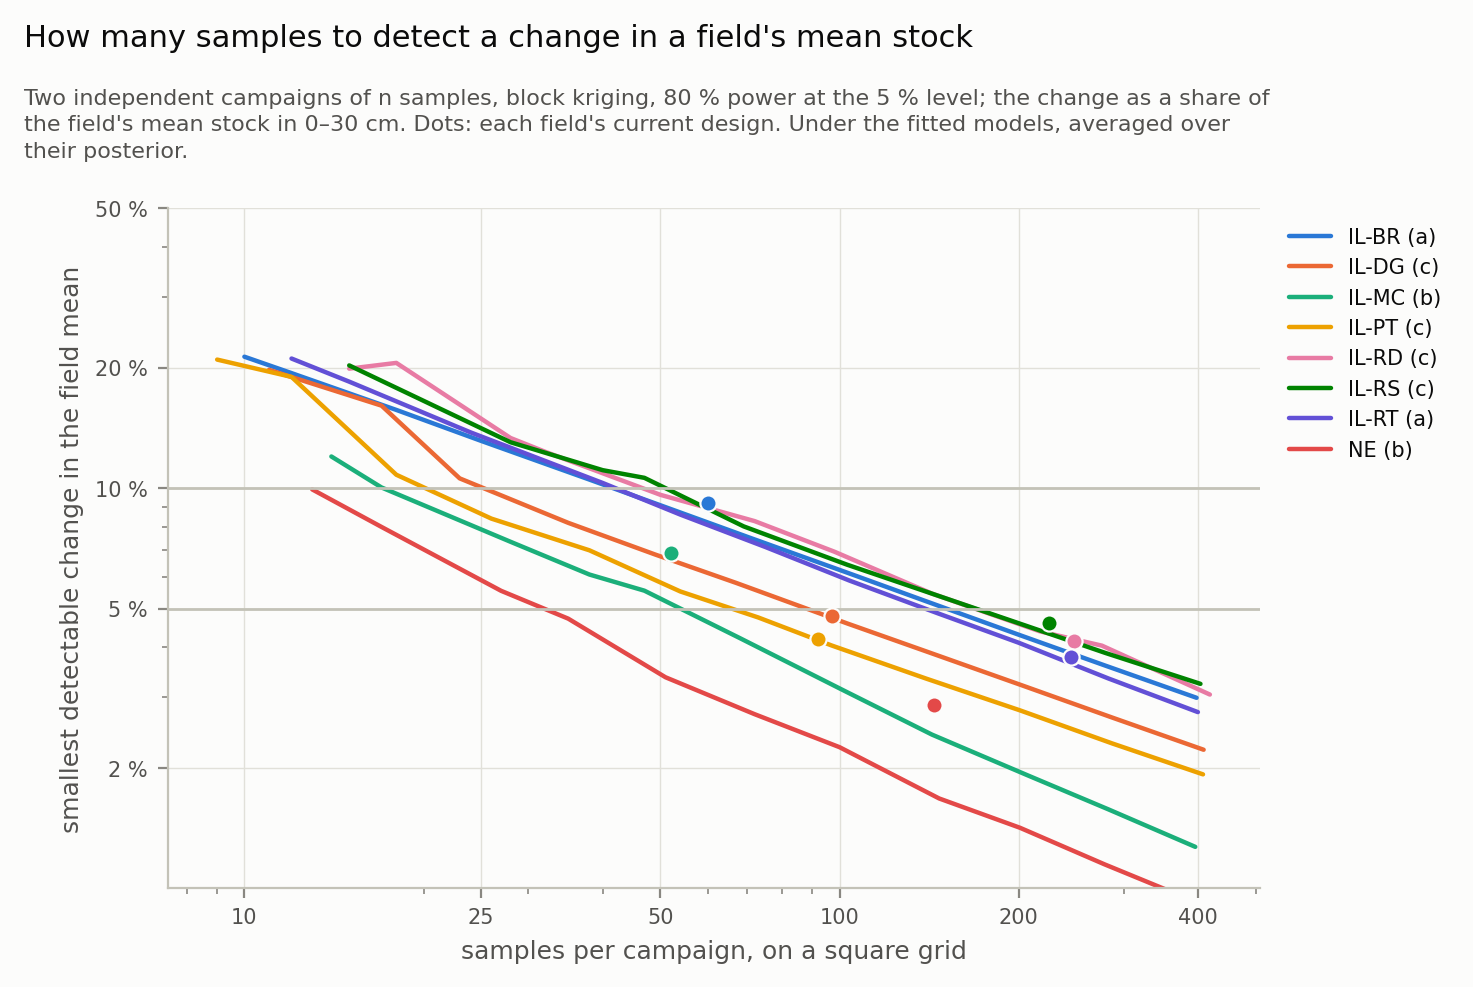
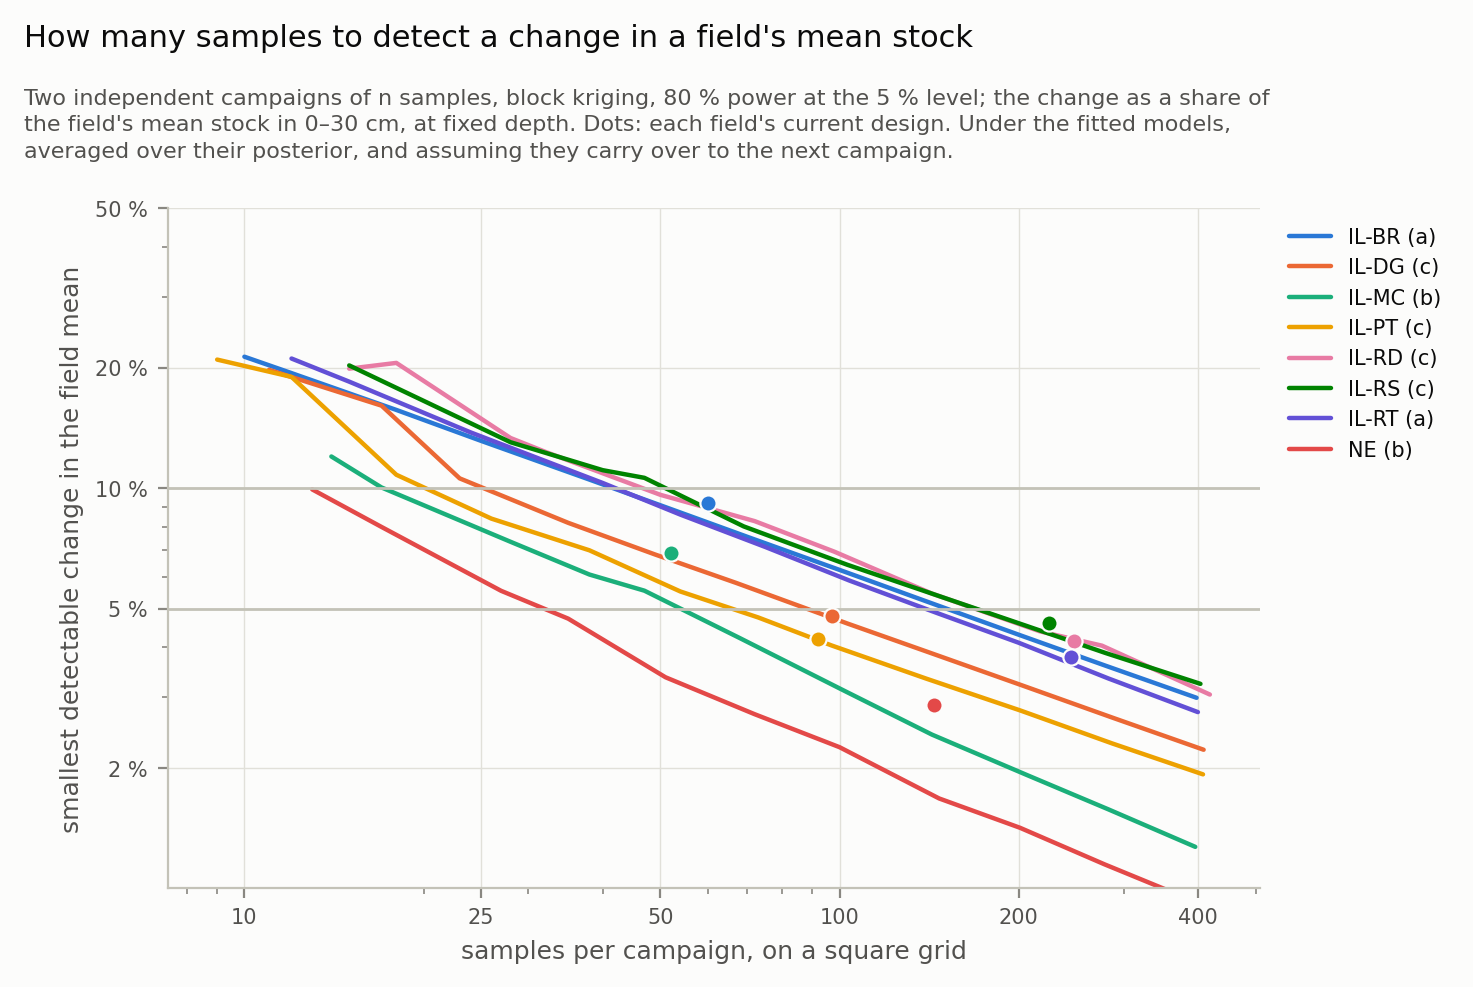
Review of v1.0, first fixes: the README and the report say what the results rest on (selection, IL-BR, the model carrying over, fixed depth, the gstat gap unexplained); matplotlib and GeoPandas in the requirements and the lock; four tests redraw the report's figures

Changed region(s): [[0.2498, 0.1216, 0.8432, 0.1824], [0.0312, 0.1216, 0.1249, 0.1824], [0.1561, 0.152, 0.2186, 0.1824]]

diff --git a/src/report/test_figures.py b/src/report/test_figures.py
@@ -1,0 +1,52 @@
+"""The report's figures redrawn from the tables committed beside them
+(docs/figures/*.csv), so that a change to figures.py or to the environment
+that breaks a figure fails CI. The map and the variograms need the curated
+tables, which are not committed, and are drawn by `python -m src.report.figures`
+only. Added 15.11.2026 after the review of v1.0 (docs/REVIEW_V1.md, section 3)."""
+import pandas as pd
+import pytest
+
+from src.report import figures as FG
+
+TABLES = FG.FIGURES
+
+
+@pytest.fixture(scope="module")
+def means():
+    return pd.read_csv(TABLES / "field_means.csv")
+
+
+@pytest.fixture(scope="module")
+def selected(means):
+    return means.set_index("site")["model"].sort_index()
+
+
+def _drawn(path):
+    assert path.exists() and path.stat().st_size > 20_000
+    return True
+
+
+def test_calibration(tmp_path, selected):
+    out = tmp_path / "calibration.png"
+    FG.draw_calibration(pd.read_csv(TABLES / "calibration.csv"), selected, out)
+    assert _drawn(out)
+
+
+def test_crps_by_field(tmp_path, selected):
+    table = pd.read_csv(TABLES / "crps_by_field.csv")
+    assert set(table["site"]) == set(selected.index)
+    out = tmp_path / "crps_by_field.png"
+    FG.draw_crps(table, selected, out)
+    assert _drawn(out)
+
+
+def test_field_means(tmp_path, means):
+    out = tmp_path / "field_means.png"
+    FG.draw_field_means(means, out)
+    assert _drawn(out)
+
+
+def test_detectable_change(tmp_path, means):
+    out = tmp_path / "detectable_change.png"
+    FG.draw_detectable_change(pd.read_csv(TABLES / "detectable_change.csv"), means, out)
+    assert _drawn(out)

diff --git a/src/report/figures.py b/src/report/figures.py
@@ -10,7 +10,7 @@ curated tables alone.
                                         each field's selected mean model, and QRF
         docs/figures/calibration.csv    the values the calibration figure draws
 
-Needs requirements-figures.txt (matplotlib). The colours are the portfolio's
+Needs matplotlib (requirements.txt). The colours are the portfolio's
 data-visualisation palette: three categorical hues, checked for colour-vision
 deficiency, and one-hue sequential ramps for the maps.
 """
@@ -337,8 +337,8 @@ def draw_detectable_change(effort: pd.DataFrame, means: pd.DataFrame, out) -> No
     ax.set_ylabel("smallest detectable change in the field mean")
     _title(fig, "How many samples to detect a change in a field's mean stock",
            "Two independent campaigns of n samples, block kriging, 80 % power at the 5 % level; the change as a share "
-           "of the field's mean stock in 0–30 cm. Dots: each field's current design. Under the fitted models, averaged "
-           "over their posterior.", 110)
+           "of the field's mean stock in 0–30 cm, at fixed depth. Dots: each field's current design. Under the fitted "
+           "models, averaged over their posterior, and assuming they carry over to the next campaign.", 110)
     fig.savefig(out, dpi=DPI, bbox_inches="tight", pad_inches=0.12)
     plt.close(fig)
 

diff --git a/README.md b/README.md
@@ -1,15 +1,16 @@
 # Soil Carbon Kriging
 
-**Soil organic carbon mapped with its uncertainty, in Python.** Ordinary
-kriging and the kriging variance on field-scale carbon stocks from eight U.S.
-Midwest fields, then on Germany's agricultural soil inventory, whose published
-site locations are offset by up to 4 km for data protection.
+**Soil organic carbon mapped with its uncertainty, in Python.** Bayesian
+kriging of field-scale carbon stocks from eight U.S. Midwest fields, with the
+uncertainty of every prediction and of each field's mean. Germany's
+agricultural soil inventory, whose published site locations are offset by up
+to 4 km for data protection, is pulled and checked; its model is Stage 6.
 
 **Author:** Dr. Adewole Olagoke · [aolagoke-dsae](https://github.com/aolagoke-dsae)
 
 ![IL-RT, one of the eight fields: the predicted soil organic carbon stock at 2,903 cells of 10 m beside its predictive standard deviation, with the 245 sampled locations](docs/figures/map_IL-RT.png)
 
-*IL-RT, one of the eight fields: the stock in 0–30 cm predicted at each 10 m cell by Bayesian kriging of 245 samples (dots), beside its uncertainty, lowest at the samples. In cross-validation the field's kriging has a modelling efficiency of 0.57, and its 90 % intervals hold 89.5 % of the held-out stocks.*
+*IL-RT, one of the eight fields: the stock in 0–30 cm predicted at each 10 m cell by Bayesian kriging of 245 samples (dots), beside its uncertainty, lowest at the samples. In cross-validation the field's kriging has a modelling efficiency of 0.57, and its 90 % intervals hold 89.5 % of the held-out stocks. IL-RT is shown because it is the field where kriging does best: across the eight fields the modelling efficiency runs from −0.04 to 0.57, and at IL-BR and IL-DG a map adds almost nothing to the field's mean.*
 
 > **Status: Stage 5 run (14.11.2026): each field's mean stock, with what it means for monitoring.**
 > The report: https://aolagoke-dsae.github.io/soil-carbon-kriging/
@@ -26,6 +27,8 @@ site locations are offset by up to 4 km for data protection.
 > ([`RUNBOOK.md`](RUNBOOK.md), Stages 2 to 5). Each stage's rules are fixed
 > by a commit before its data is touched; Stage 2's followed a review
 > against current practice ([`docs/REVIEW_STAGE2.md`](docs/REVIEW_STAGE2.md)).
+> A pre-publication review of v1.0 ([`docs/REVIEW_V1.md`](docs/REVIEW_V1.md),
+> 15.11.2026) is being worked through before Stage 6.
 
 ## Kurzfassung
 
@@ -36,12 +39,14 @@ Mittleren Westen der USA (Potash et al., 2023); die Kovarianzmodelle werden
 per REML geschätzt, Geländeparameter aus USGS-3DEP-Höhendaten dienen als
 Kovariaten. In dreimal wiederholter zehnfacher Kreuzvalidierung halten die
 90-%-Intervalle des bayesschen Krigings an jedem Feld 88 bis 91 % der
-zurückgehaltenen Vorräte, und im CRPS schneidet es an sieben von acht
-Feldern besser ab als ein Quantile Regression Forest. Der mittlere Vorrat je
-Feld, per bayesschem Block-Kriging geschätzt, liegt zwischen 21,8 und
-65,7 Mg C/ha; um eine Änderung von 10 % des Mittels zwischen zwei
-Beprobungen nachzuweisen, genügen auf einem Raster 13 bis 52 Proben statt 25
-bis 103 bei einfacher Zufallsstichprobe. Die Regeln jeder Stufe werden per
+zurückgehaltenen Vorräte; im CRPS schneidet es an sieben von acht Feldern
+besser ab als der hier trainierte Quantile Regression Forest, an fünf, wenn
+das Mittelwertmodell vorab festgelegt wird. Der mittlere Vorrat je Feld, per
+bayesschem Block-Kriging geschätzt, liegt an sieben Feldern zwischen 50,8 und
+65,7 Mg C/ha; der Wert des achten (IL-BR, 21,8) wird noch geprüft. Um eine
+Änderung von 10 % des Mittels zwischen zwei Beprobungen nachzuweisen, genügen
+auf einem Raster mit Block-Kriging 13 bis 52 Proben, sofern das angepasste
+Modell weiter gilt, statt 25 bis 103 bei einfacher Zufallsstichprobe. Die Regeln jeder Stufe werden per
 Commit festgelegt, bevor ihre Daten verwendet werden; die Übertragung auf die
 Bodenzustandserhebung Landwirtschaft (BZE-LW) des Thünen-Instituts folgt als
 Stufe 6.
@@ -81,61 +86,83 @@ the pulls and the checkpoints is in [`RUNBOOK.md`](RUNBOOK.md), Stages 1 and 3.
 
 ## What is real
 
-- **Real:** two ingestion clients built on `requests` (retries, timeouts,
-  write-once storage, a manifest row per response); both datasets pulled and
-  checked against their sources (Checkpoint 1, 9/9 rules); the 0–30 cm stock
-  at 1,163 locations, checked against a second computation; REML for three
+**Built and checked**
+
+- **Ingestion:** three clients built on `requests` (figshare, the Thünen
+  Atlas WFS, and The National Map by HTTP range requests), with retries,
+  timeouts, write-once storage and a manifest row per response; both
+  datasets checked against their sources (Checkpoint 1, 9/9 rules).
+- **Stocks and covariance models (Stage 2):** the 0–30 cm stock at 1,163
+  locations, checked against a second computation; REML for three
   covariance families and two mean models, written in NumPy and SciPy, its
-  likelihood checked against scikit-learn's and its estimates on 50
-  simulated fields; the REML fits to all eight fields under both mean
-  models, with 95 % profile-likelihood intervals, the pooling test for the
-  small fields, a Box-Cox profile per field and a geometric-anisotropy check
-  for the large fields; the gstat-style moment baseline beside them, its
-  semivariances and fits checked against GSTools' (Checkpoint 2, 9/9
-  rules); a third client, which reads only the parts of five USGS tiles
-  under the fields by HTTP range requests, and from them slope and mean
-  curvature at three scales, TPI at three and TWI at all 1,163 locations,
-  checked against GDAL, direct least-squares fits, scikit-image and a
-  sparse linear solve (Checkpoint 3, 6/6 rules); Bayesian kriging in NumPy
-  and SciPy, its covariance parameters integrated over a grid inside Stage
-  2's bounds, under a constant mean, a quadratic trend and terrain as an
-  external drift chosen by AIC inside each training fold, with plug-in
-  kriging beside it; a quantile regression forest and a random forest with
-  kriged residuals, each trained across the eight fields; all of them
-  scored at every location by three repeats of ten-fold cross-validation on
-  the CRPS, PICP and QCP, and checked against the bordered kriging system,
-  explicit inverses, Stage 2's REML likelihood, a calibration simulation and
-  the trees' own leaves, and against GSTools, an independent geostatistics
-  library, which reproduces its kriging within 10⁻¹⁴; maps of the
-  predictive mean and standard deviation at every 10 m cell of the eight
-  fields, checked against the cross-validation's own predictive
-  (Checkpoint 4, 13/13 rules); each field's mean stock by Bayesian block
-  kriging, checked against a direct solve, a calibration simulation and R's
-  gstat (Checkpoint 5, 5/5 rules); 232 unit tests, none of which makes a
-  request; a CI workflow for Python 3.11 and 3.14 on Linux, 3.14 on Windows from
-  the lock file, and the gstat check in R.
-- **What Stage 4 found:** the selected kriging's 90 % intervals hold 88 to
-  91 % of the held-out stocks at every field; carrying the parameters'
-  uncertainty widens the predictive variance by 2 to 12 % against plug-in
-  kriging; terrain as an external drift is selected at four fields of eight;
-  the selected kriging scores better than the quantile regression forest at
-  seven fields and better than the forest with kriged residuals at five;
-  its mean squared deviation ratio (MSDR), 1.06 over the eight fields
-  against plug-in kriging's 1.11, shows its variance about right where the
-  plug-in's is too small ([`RUNBOOK.md`](RUNBOOK.md), Stage 4, *Result* and
-  *Addendum: result*).
+  Gaussian likelihood checked against scikit-learn's and its estimates on 50
+  simulated fields, with 95 % profile-likelihood intervals, the pooling test for the small fields,
+  a Box-Cox profile per field and a geometric-anisotropy check; the
+  gstat-style moment baseline beside them, checked against GSTools
+  (Checkpoint 2, 9/9 rules).
+- **Terrain (Stage 3):** slope, mean curvature and TPI at three scales and
+  TWI at all 1,163 locations, from five USGS 3DEP tiles, checked against
+  GDAL, direct least-squares fits, scikit-image and a sparse linear solve
+  (Checkpoint 3, 6/6 rules).
+- **Kriging and its benchmark (Stage 4):** Bayesian kriging with its
+  covariance parameters integrated over a grid, under a constant mean, a
+  quadratic trend and terrain as an external drift, plug-in kriging beside
+  it, a quantile regression forest and a forest with kriged residuals; all
+  scored at every location by three repeats of ten-fold cross-validation
+  (CRPS, PICP, QCP, MSDR); the kriging reproduced by GSTools within 10⁻¹⁴;
+  maps of all eight fields (Checkpoint 4, 13/13 rules).
+- **Field means (Stage 5):** Bayesian block kriging of each field's mean,
+  checked against a direct solve, a calibration simulation and R's gstat
+  (Checkpoint 5, 5/5 rules).
+- **Tests and CI:** 236 unit tests, none of which makes a request, four of
+  them redrawing the report's figures from their committed tables; CI on
+  Python 3.11 and 3.14 on Linux, 3.14 on Windows from the lock file, and the
+  gstat check in R.
+
+**What Stage 4 found** ([`RUNBOOK.md`](RUNBOOK.md), Stage 4, *Result* and
+*Addendum: result*)
+
+- The selected kriging's 90 % intervals hold 88 to 91 % of the held-out
+  stocks at every field. Its mean squared deviation ratio (MSDR), 1.06 over
+  the eight fields against plug-in kriging's 1.11, shows its variance about
+  right where the plug-in's is too small; carrying the parameters'
+  uncertainty widens the predictive variance by 2 to 12 %.
+- What a map adds varies by field: the modelling efficiency runs from −0.04
+  at IL-BR to 0.57 at IL-RT, and at IL-BR and IL-DG kriging scores within
+  2 % of the field's own distribution of stocks. Terrain as an external
+  drift is selected at four fields of eight.
+- Against this repository's two forests, trained across the fields on
+  coordinates and terrain: the selected kriging has a lower CRPS than the
+  quantile forest at seven fields, two of them by less than 0.4 %, and at
+  five if each field's mean model is fixed beforehand, since the selection
+  used the same cross-validation (review, M1). The forest with kriged
+  residuals does better at three fields.
 
   ![Calibration: the share of held-out stocks below each predictive quantile, for Bayesian kriging, plug-in kriging and the quantile regression forest, the eight fields pooled and each field's departure from the 1:1 line](docs/figures/calibration.png)
-- **What Stage 5 found:** each field's mean stock in 0–30 cm, from 21.8 Mg
-  C/ha at IL-BR to 65.7 at IL-RD, agrees with its sample mean at every
-  field, with an interval up to 46 % narrower; to detect a change of 10 % of
-  the mean between two campaigns, 13 to 52 samples on a grid suffice under
-  the fitted models, against 25 to 103 by simple random sampling
-  ([`RUNBOOK.md`](RUNBOOK.md), Stage 5).
 
-  ![The smallest detectable change in each field's mean stock against the number of samples per campaign](docs/figures/detectable_change.png)
-- **Not yet:** the national-scale model for BZE-LW (Stage 6), which has no
-  rules yet.
+**What Stage 5 found** ([`RUNBOOK.md`](RUNBOOK.md), Stage 5)
+
+- Each field's mean stock in 0–30 cm lies between 50.8 and 65.7 Mg C/ha at
+  seven fields. IL-BR's, 21.8, is under review: its carbon contents and
+  bulk densities look implausible beside the other fields' (review, M5).
+- Block kriging and the sample mean agree at every field; the block-kriging
+  interval is 6 to 46 % narrower at seven fields and 2 % wider at IL-BR.
+  Both come from the same samples, so their agreement shows consistency,
+  not accuracy (review, M3).
+- To detect a change of 10 % of the mean between two campaigns, 13 to 52
+  samples on a grid with block kriging suffice if the fitted model carries
+  over to the next campaign, against 25 to 103 by simple random sampling
+  with the sample mean. These are fixed-depth stocks; monitoring change
+  would compare them on an equivalent soil mass.
+
+  ![The smallest detectable change in each field's mean stock against the number of samples per campaign, for fixed-depth stocks, under the fitted models](docs/figures/detectable_change.png)
+
+**Under review:** a pre-publication review of v1.0
+([`docs/REVIEW_V1.md`](docs/REVIEW_V1.md)) found five major issues. They are
+addressed before Stage 6, as dated addenda with their rules fixed first.
+
+**Not yet:** the national-scale model for BZE-LW (Stage 6), which has no
+rules yet.
 
 ## Licence
 

diff --git a/RUNBOOK.md b/RUNBOOK.md
@@ -24,6 +24,19 @@ written before its data is touched, once the stage before it has passed. The ord
 of Stages 3–6 and the machine-learning benchmark follow the review of the
 Stage 2 draft ([`docs/REVIEW_STAGE2.md`](docs/REVIEW_STAGE2.md)).
 
+## Review of v1.0
+
+A pre-publication review of release v1.0 ([`docs/REVIEW_V1.md`](docs/REVIEW_V1.md),
+15.11.2026) found five major issues (M1–M5), six moderate (m1–m6) and five
+minor. Nothing in Stages 1–5 is rerun or changed by it until an addendum,
+with its rules fixed first, says so.
+
+| Date | Adopted | Where |
+|---|---|---|
+| 15.11.2026 | Wording: the README's first paragraph (Bayesian, not ordinary, kriging; BZE-LW pulled, not modelled); the range of MEC beside the IL-RT map (m1); the gstat discrepancy called unexplained (m3); "this forest", not machine learning (m5); the fixed-depth and carry-over caveats on the detectable change (m6, M4's wording); IL-BR's wider interval and IL-BR's level under review (M5's wording); the count of seven against five fields (M1's wording); the report's limits gain m2, M1 and M2. "What is real" in the README in bullets | README, `docs/index.qmd`, `detectable_change.png`'s subtitle |
+| 15.11.2026 | matplotlib and GeoPandas in `requirements.txt` and the lock file, which gains them and their dependencies and changes no other pin (`uv pip compile --universal --python-version 3.11`, without `--upgrade`); four unit tests redraw the report's figures from their committed tables, so CI now runs `figures.py`; 236 tests pass from the lock on Python 3.14 | `requirements.txt`, `requirements-lock.txt`, `src/report/test_figures.py` |
+| open | M1–M5 and m4, as addenda to Stages 1, 4 and 5; the spread of the scores over the three repeats (section 3) | — |
+
 ---
 
 ## Stage 1: pull both datasets

diff --git a/docs/REVIEW_V1.md b/docs/REVIEW_V1.md
@@ -17,9 +17,11 @@ quoted below come from the RUNBOOK's recorded results, except those under M5,
 which come from `raw/` on 15 November 2026. Every reference was checked
 against its DOI record on that day.
 
-**Status:** not yet adopted. Each amendment is to enter the RUNBOOK as a
-dated addendum with rules fixed before it runs, as Stage 4's did; this file
-records what was found, and the RUNBOOK will record what was done about it.
+**Status:** section 3's findings but the last, and the wording of m1, m3,
+m5 and m6, adopted on 15 November 2026 (RUNBOOK, *Review of v1.0*); m2 is
+listed among the report's limits. M1–M5 and m4 are to enter the RUNBOOK as
+dated addenda with rules fixed before they run, as Stage 4's did; this file
+records what was found, and the RUNBOOK records what was done about it.
 
 ## Verdict
 
